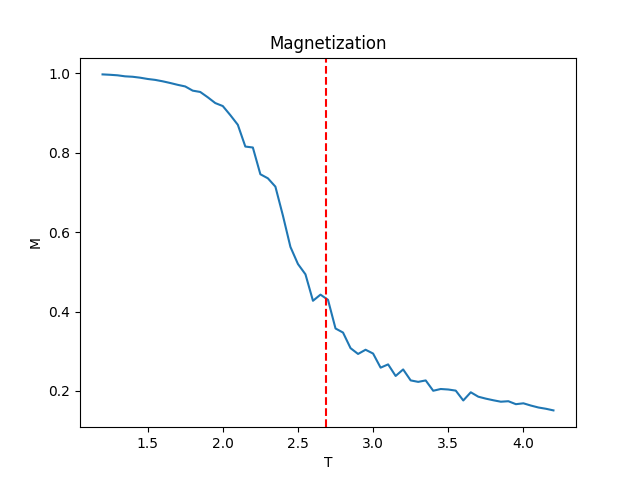
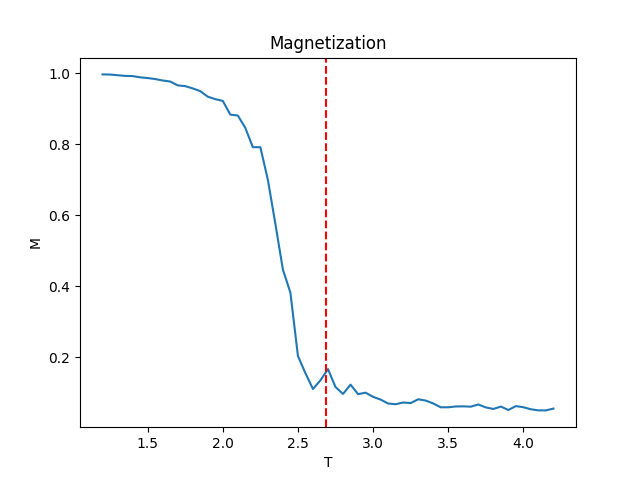
2020-11-16

diff --git a/Ising_MCS/observables.cpp b/Ising_MCS/observables.cpp
@@ -9,9 +9,9 @@ using namespace std;
 const double T0 = 1.2;
 const double dT=0.05;
 const int nT = 61;
-const long N = 10;
-const long n1 = 200000;
-const long n2 = 200000;
+const long N = 30;
+const long n1 = 10000000;
+const long n2 = 300000;
 
 static int **s = new int*[N];
 
